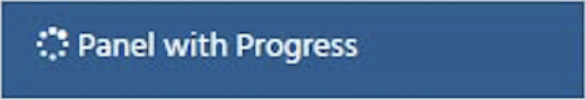
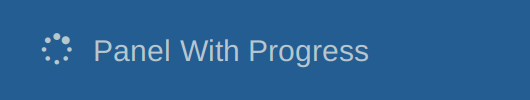
Add files via upload

Changed region(s): [[0.0, 0.0, 1.0, 1.0], [0.0604, 0.24, 0.6943, 0.69]]

diff --git a/practica05 CSS/index.html b/practica05 CSS/index.html
@@ -63,60 +63,60 @@
     </section>
     <main id="megaseccion">
         <section id="Cubos">
-            <span class="Titulo"> Simple Cubes</span>
-            <article>
-                <img src="img/cubo1.png" alt="cubo01">
-                <span class="letrablanca"> Lorem ipsum dolor sit amet, consectetur adipiscing elit.</span>
+            <span class="Titulo"> Simple Cubes</span> <br>
+            <article id="Art1">
+                <img src="img/cubo1.png" alt="cubo01"> <br>
+                <span class="letracubo"> Lorem ipsum dolor sit amet, consectetur adipiscing elit.</span>
             </article>
-            <article>
-                <img src="img/cubo02.png" alt="cubo02">
-                <span class="letrablanca"> Lorem ipsum dolor sit amet, consectetur adipiscing elit.</span>
+            <article id="Art2">
+                <img src="img/cubo02.png" alt="cubo02"> <br>
+                <span class="letracubo"> Lorem ipsum dolor sit amet, consectetur adipiscing elit.</span>
             </article>
-            <article>
-                <img src="img/cubo03.png" alt="cubo03">
-                <span class="letrablanca"> Lorem ipsum dolor sit amet, consectetur adipiscing elit.</span>
+            <article id="Art3">
+                <img src="img/cubo03.png" alt="cubo03"> <br>
+                <span class="letracubo"> Lorem ipsum dolor sit amet, consectetur adipiscing elit.</span>
             </article>
-            <article>
-                <img src="img/cubo04.png" alt="cubo04">
-                <span class="letrablanca"> Lorem ipsum dolor sit amet, consectetur adipiscing elit.</span>
+            <article id="Art4">
+                <img src="img/cubo04.png" alt="cubo04"> <br>
+                <span class="letracubo"> Lorem ipsum dolor sit amet, consectetur adipiscing elit.</span>
             </article>
         </section>
         <section id="Graficas">
-            <span class="Titulo"> Panels</span>
-            <article>
-                <span class="letrablanca "> 84% </span>
-                <img src="img/grafico.png" alt="grafico01">
-                <span> Lorem ipsum dolor sit amet, consectetur adispicing elit. Maecenas egestas justo vel porta placerat.</span>
+            <span class="Titulo"> Panels</span> <br>
+            <article id="Art5">
+                <article id="encabezado1"> 84% </article> 
+                <img src="img/grafico.png" alt="grafico01"> <br>
+                <span class="letraencabezado"> Lorem ipsum dolor sit amet, consectetur adispicing elit. Maecenas egestas justo vel porta placerat.</span>
             </article>
-            <article>
-                <span class="letrablanca"> 36% </span>
-                <img src="img/grafico.png" alt="grafico02">
-                <span> Lorem ipsum dolor sit amet, consectetur adispicing elit. Maecenas egestas justo vel porta placerat.</span>
+            <article id="Art6">
+                <article id="encabezado2"> 36% </article> 
+                <img src="img/grafico.png" alt="grafico02"> <br>
+                <span class="letraencabezado"> Lorem ipsum dolor sit amet, consectetur adispicing elit. Maecenas egestas justo vel porta placerat.</span>
             </article>
-            <article>
-                <span class="letrablanca"> 22%</span>
-                <img src="img/grafico.png" alt="grafico03">
-                <span> Lorem ipsum dolor sit amet, consectetur adispicing elit. Maecenas egestas justo vel porta placerat.</span>
+            <article id="Art7">
+                <article id="encabezado3"> 22%</article> 
+                <img src="img/grafico.png" alt="grafico03"> <br>
+                <span class="letraencabezado"> Lorem ipsum dolor sit amet, consectetur adispicing elit. Maecenas egestas justo vel porta placerat.</span>
             </article>
         </section>
         <section id="Usuarios">
-            <span class="Titulo"> Users</span>
-            <article>
+            <span class="Titulo"> Users</span> <br>
+            <article id="Art8">
                 <img src="img/usuario01.png" alt="Tilina">
                 <span class="letrablanca grande"> user Example </span>
                 <img src="img/SendMessage.png" alt="DM">
             </article>
-            <article>
+            <article id="Art9">
                 <img src="img/usuario02.png" alt="Tilin">
                 <span class="letrablanca grande"> user Example </span>
                 <img src="img/SendMessage.png" alt="DM">
             </article>
-            <article>
+            <article id="Art10">
                 <img src="img/usuario03.png" alt="Bellaka">
                 <span class="letrablanca grande"> user Example </span>
                 <img src="img/SendMessage.png" alt="DM">
             </article>
-            <article>
+            <article id="Art11">
                 <img src="img/usuario04.png" alt="Bellako">
                 <span class="letrablanca grande"> user Example </span>
                 <img src="img/SendMessage.png" alt="DM">

diff --git a/practica05 CSS/css/estilos.css b/practica05 CSS/css/estilos.css
@@ -38,7 +38,7 @@ section {
 #menusuperior {
     background: var(--color-gris);
     text-align: right;
-    padding: 8px;
+    padding: 4px;
 }
 
 #menusuperior article img {
@@ -50,6 +50,12 @@ section {
 #PanelLateral {
     width: 24.5%;
     /* border: 1px solid red; */
+}
+
+.letrablanca{
+    color: var(--color-blanco);
+    font-size: 19px;
+    font-family: Arial, Helvetica, sans-serif;
 }
 
 section nav ul li, article ul li {
@@ -64,12 +70,10 @@ ul{
 #PanelLink {
     background: var(--color-azulfuerte);
     height: 47%;
-    padding: 50px;
 }
 
 #PanelLink img {
-    height: 48%;
-    width: 250px;
+    width: 100%;
 }
 
 #PanelProgress{
@@ -78,8 +82,7 @@ ul{
 }
 
 #PanelProgress img {
-    height: 48%;
-    width: 250px;
+    width: 100%;
 }
 
 #megaseccion {
@@ -89,34 +92,108 @@ ul{
     overflow: hidden;
 }
 
-#Cubos article{
-    float: left;
-    width: 23.9%;
-    box-sizing: border-box;
-    padding: 10px;
-}
-
 .Titulo {
     float: left;
     overflow: hidden;
+}
+
+#Cubos article{
+    float: left;
+    width: 22%;
+    box-sizing: border-box;
+    border-radius: 5px;
+    text-align: center;
+    margin: 0 15px 5px 0;
 }
 
 #Cubos article img{
     text-align: center;
     clear: left; 
     display: inline-block;
-    width: 50%;
+    width: 55%;
+}
+
+#Art1{
+    background-color: var(--color-verde);
+    padding: 7px 2px;
+}
+
+#Art2{
+    background-color: var(--color-azul);
+    padding: 4px 2px;
+}
+
+#Art3{
+    background-color: var(--color-morado);
+    padding: 5px 2px;
+}
+
+#Art4{
+    background-color: var(--color-rojo);
+    padding: 6px 2px;
+}
+
+.letracubo{
+    color: var(--color-blanco);
 }
 
 #Graficas article{
     float: left;
-    width: 31.9%;
     box-sizing: border-box;
+    display: block;
+    text-align: center;
+    width: 32%;
+    margin: 0 8px 0 0;
+}
+
+#Art5{
+     border: 1px solid red; 
+     position: relative;
+     padding: 20px;
 }
 
 #Graficas article img{
+    display: block;
+    width: 100%;
+    height: auto;
+}
+
+.letraencabezado{
+    display: block; 
+    text-align: center; 
+    margin-bottom: 5px;
+}
+
+#encabezado1{
+    border: 1px solid red;
+    position: absolute;
+    top: 0;
+    left: 0;
+    width: 100%;
+    padding: 5px;
+    box-sizing: border-box;
+    font-size: 1.6em; 
+}
+
+#Art6{
+    /* border: 1px solid blue; */
+}
+
+#encabezado2{
+    border: 1px solid red;
     text-align: center;
-    width: 90%;
+    margin: 0 auto;
+    font-size: 1.6em;
+}
+#Art7{
+    /* border: 1px solid green; */
+}
+
+#encabezado3{
+    border: 1px solid red;
+    text-align: center;
+    margin: 0 auto;
+    font-size: 1.6em;
 }
 
 #Usuarios article{
